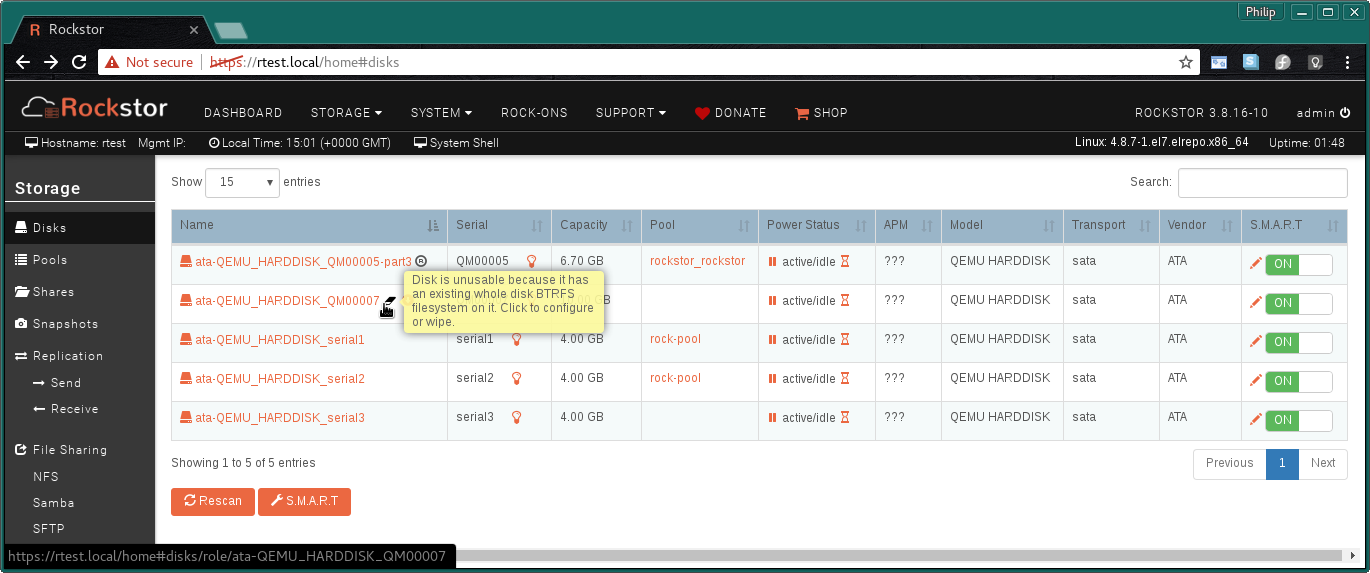
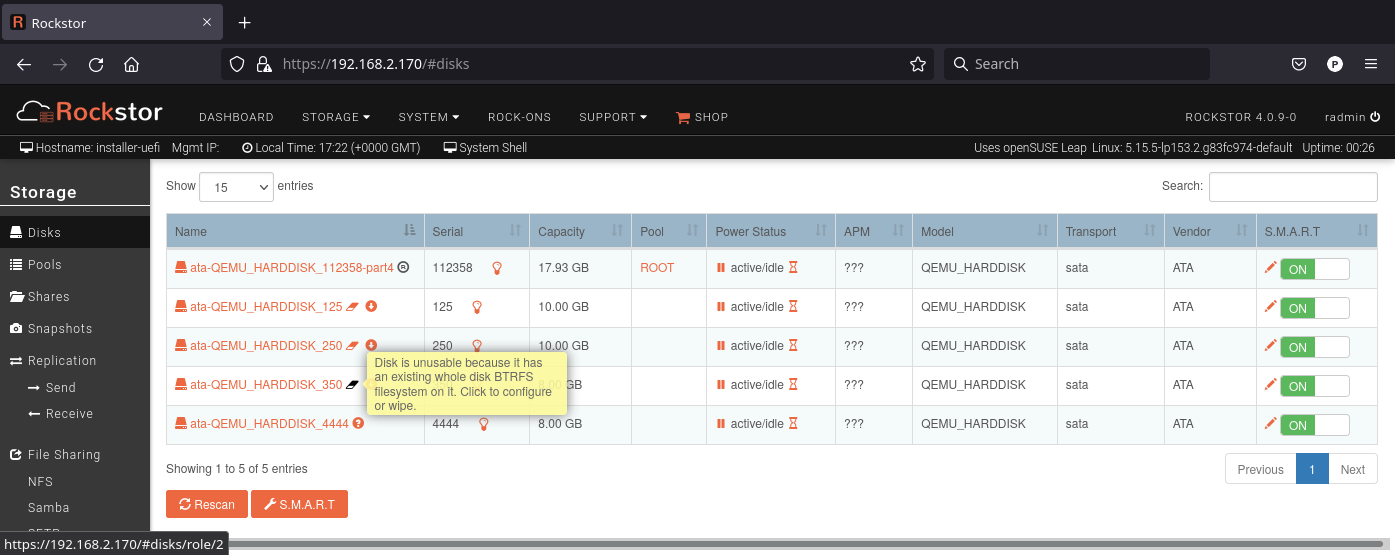
update Disk page for question mark meaning #236
Update our disk page Web-UI screen images and associated text regarding
the meaning of the question mark and its context re other disk state
icons used. Includes some re-ordering and a fair bit of re-wording to
help clarify such things as the re-direct role.

diff --git a/interface/storage/disks.rst b/interface/storage/disks.rst
@@ -23,7 +23,7 @@ to be attached are re-named to **detached-<random-string>**. Attached devices
 are named according to their boot to boot stable udev assigned by-id names (ie
 **/dev/disk/by-id** entries). All devices require and are tracked by their
 unique **serial number** which allows for consistent settings even when a disk
-is moved from one pool to another (via sequential pool resize operations).
+is moved from one pool to another (via sequential pool Resize/Reraid operations).
 
 The Disks Web-UI page:
 
@@ -38,10 +38,10 @@ the table along with **Prev** and **Next** buttons.
 
 *Table links from left to right:-*
 
-* **Drive 'by-id' Name** - see drive's :ref:`smart` / status.
+* **Drive 'by-id' Name** - click see drive's :ref:`smart` / status.
 * **Bulb Icon** - flash drive's activity light to **identify its physical
   location**.
-* **Pool Name** - :ref:`pools` specific **details** page.
+* **Pool Name** - click for :ref:`pools` **details** page.
 * **Pause Drive** - request an immediate drive **spin down** (standby mode).
 * **Hour glass** - configure :ref:`drivespindown` given idle time, see:
   :ref:`idletime`.
@@ -59,8 +59,6 @@ functions provided by the *S.M.A.R.T* column entries.
   below.
 * **S.M.A.R.T** - system wide **custom configuration** (advanced).
 
-
-
 ..  _scandisks:
 
 Scan for Disk Changes
@@ -68,7 +66,7 @@ Scan for Disk Changes
 
 Clicking the **Rescan** button forces an update of the Disk table. This is
 particularly useful if a drive has been added or removed since Rockstor was
-powered on ie *hot plugged/unplugged*. It is recommended that this action be
+powered on i.e. *hot plugged/unplugged*. It is recommended that this action be
 taken just prior to *removing detached devices* to ensure the table contents
 is freshly updated.
 
@@ -97,69 +95,65 @@ This process is detailed in the following sub-sections: :ref:`btrfsdisk`, and
 Import whole disk BTRFS
 ^^^^^^^^^^^^^^^^^^^^^^^
 
-If after a :ref:`scandisks` or after :ref:`reinstall` the system finds an
-**existing whole disk BTRFS filesystem** a small **down arrow icon** next to
-pool member drive names will be visible. This down arrow can be used to import
-the btrfs filesystem, assuming all prior pool members are attached.
+If after a :ref:`scandisks` or after :ref:`reinstall` the system finds an **existing whole disk BTRFS filesystem**
+a small **down arrow icon** next to each pool member drive names will be visible.
+This down arrow can be used to import the btrfs filesystem, assuming all prior pool members are attached.
 
-*The import icon:*
+Here we see the disks page after a re-install to the system in the last image above.
+No pools have yet been imported.
 
 .. image:: /images/interface/storage/existing-btrfs-whole-disk-import-tooltip.png
    :width: 100%
    :align: center
 
-**import icon tooltip** *"Click to import data (pools, shares and snapshots)
-on this disk automatically. Multi-device support included."*
-
-*or configure / wipe*
+- **import icon mouse-over tooltip** *"Click to import data (pools, shares and snapshots)
+  on this disk automatically. Multi-device support included."*
 
 .. image:: /images/interface/storage/existing-btrfs-whole-disk-config-tooltip.png
    :width: 100%
    :align: center
 
-**configure or wipe icon tooltip** *"Disk is unusable because it has an
-existing whole disk BTRFS filesystem on it. Click to configure or wipe."*.
+- **configure or wipe icon mouse-over tooltip** *"Disk is unusable because it has an
+  existing whole disk BTRFS filesystem on it. Click to configure or wipe."*.
 
-In this case we use the former **import** icon option and there after the
-disk table is as follows:
+In this case we used the **import** (down arrow) option and there after the disk table is as follows:
 
 .. image:: /images/interface/storage/whole-disk-btrfs-import-done.png
    :width: 100%
    :align: center
 
-In the above the btrfs filesystem created (outside of Rockstor) was labeled
-"test-pool".
+In the above we have now imported the prior multi-device pool via one of its members.
+This process can take from a few seconds to a minute or so, depending on pool size and share/snapshot count.
 
-**Note: Rockstor requires btrfs labels and will name imported pools by
-the label found during the import process.**
+**Note: Rockstor requires/uses btrfs labels.
+Imported pools are named after their respective labels.**
 
 ..  _btrfspartition:
 
 Import BTRFS in partition
 ^^^^^^^^^^^^^^^^^^^^^^^^^
 
-Rockstor can also import btrfs pools that have partitioned members (*although
-whole disk is recommended as this is a simpler arrangement*). If at least one
-pool member is a whole disk btrfs (no partition table or partitions) then the
+Rockstor can also import pools with btrfs-in-partition members (*although
+whole disk is strongly recommended as this is a simpler arrangement*). If at least one
+pool member is a whole disk btrfs (no partition table) then the
 above :ref:`btrfsdisk` method can be used on this whole disk member. But if
 all pool members are partitions then a manually applied 'redirect role' will
-be needed on one of the pool members in order to enable the import icon on
+be required on one of the pool members in order to enable the import icon on
 that member. During the import all other partitioned members of the pool will
 have their required redirect roles applied automatically.
 
-The following shows the tooltip guide for an as yet un-imported pre exiting
-single device btrfs in partition:
+An as-yet un-imported pre-exiting btrfs-in-partition disk, with no redirect role, will have a **gear/cog icon**.
 
-.. image:: /images/interface/storage/existing-btrfs-partition-import-tooltip.png
-   :width: 100%
-   :align: center
-
-**configure or wipe tooltip** *"Disk is unusable as it contains partitions:
-one of which has an existing BTRFS filesystem on it. A User Assigned redirect
-role is required prior to import. Click to configure or wipe."*
+- **gear/cog icon tooltip** *"Disk is unusable as it contains partitions:
+  one of which has an existing BTRFS filesystem on it. A User Assigned redirect
+  role is required prior to import. Click to configure or wipe."*
 
 Please see :ref:`addingredirectrole` in the :ref:`diskroleconfig` section to
 enable / activate the import icon for a partitioned pool member.
+
+**N.B. Rockstor supports only one btrfs partition per device**
+**and is not compatible with any LVM configuration.**
+**Whole disk btrfs (no partition table) is strongly recommended.**
 
 .. _diskroleconfig:
 
@@ -198,7 +192,7 @@ partitions data and filesystem. No Redirect + Wipe erases the entire drive
 and all it's partitions. The wipe command used is "wipefs -a devname".** "
 
 The Redirect role is essentially a pointer to the partition one wants to use
-on a disk instead of using the whole disk (recommended). No Redirect role
+on a disk instead of using the whole disk (whole disk is recommended). No Redirect role
 (default) means "use whole disk". The **Select Partition to use** option
 indicates the current setting by adding an **active** to that entry.
 
@@ -223,10 +217,10 @@ when no btrfs partition exists on the same device."*
 
 Also note that once a redirect role to a btrfs partition has been established
 it is by design that it cannot be changed to another partition until the
-btrfs filesystem in that partition is wiped; either via a resize - remove disk
+btrfs filesystem in that partition is wiped; either via a Resize/ReRaid - remove disk
 operation if it is a member of a pool, or by simply wiping it in the
-:ref:`diskroleconfig` page if it is not associated with any Rockstor managed
-pools. In this case the warning message in red is:
+:ref:`diskroleconfig` page if it is not associated with any Rockstor managed pools.
+In this case the warning message in red is:
 
 *"Active btrfs partition redirect found; if you wish to change this redirect
 role first wipe the partition and then re-assign. Redirection is only
@@ -241,7 +235,7 @@ See also related wipe restrictions towards the end of the
 Adding a Redirect Role
 ^^^^^^^^^^^^^^^^^^^^^^
 
-Rockstor has an ability to work with existing partitioned devices, however the
+Rockstor has an ability to work with existing partitioned devices, however the strong
 recommendation is to use whole disks. But where this is specifically not
 desired or is otherwise unavoidable then a simple mechanism is available to
 allow the use of a single partition per disk (system disk not included). This
@@ -255,72 +249,103 @@ their contained data from the entire disk) and the disk is then usable in the
 preferred "Whole Disk" no redirect role mode.
 
 Prior to configuration, partitioned disks are displayed with a little
-**gear icon** next to their name:
+**gear/cog icon** next to their name:
 
-.. image:: /images/interface/storage/partitioned-disk-pre-redirect-role.png
-   :width: 100%
-   :align: center
+- **gear/cog icon configure or wipe mouse-over tooltip** *"Disk is unusable as it contains partitions
+  and no User Assigned Role. Click to configure or wipe."*
 
-**configure or wipe tooltip** *"Disk is unusable as it contains partitions
-and no User Assigned Role. Click to configure or wipe."*
-
-N.B. a variation of this 'cog icon' tooltip message is observed if any of the
+N.B. a variation of this 'gear/cog icon' mouse-over tooltip text occurs if any of the
 exiting partitions are found to be un-imported btrfs members. See the above
-:ref:`btrfspartition` section for more details and an image showing this
-variation.
+:ref:`btrfspartition` section for more details and the mouse-over tooltip text in this case.
 
-In either case clicking on this icon opens the :ref:`diskroleconfig` screen:
+In either case clicking on this gear/cog icon opens the :ref:`diskroleconfig` screen:
 
-In the following we return to the :ref:`btrfspartition` example:
+In the following we return to the :ref:`btrfspartition` example.
+Our contrived externally generated single disk btrfs-in-partition example was created as follows:
 
-In this image we see the selection having been made but not yet submitted.
+- partitioning (1/2 fat32 & 1/2 linux partition types):
+
+.. code-block:: console
+
+    parted -a optimal /dev/disk/by-id/ata-QEMU_HARDDISK_4444
+    mklabel msdos
+    mkpart primary fat32 1 50%
+    mkpart primary ext2 50% 100%
+    quit
+
+- formatting (fat32 & btrfs volume/pool):
+
+.. code-block:: console
+
+    mkfs.fat -s2 -F 32 /dev/disk/by-id/ata-QEMU_HARDDISK_4444-part1
+    mkfs.btrfs -L btrfs-in-partition /dev/disk/by-id/ata-QEMU_HARDDISK_4444-part2
+
+The prior **ready for allocation ? icon** is replaced by a **gear/cog icon** indicating the need for a redirect role.
+Our contrived example has only one member and it is in a partition.
+This by-hand (command line) configuration is not Rockstor native.
+Whole disk (no partition table) is strongly recommended and Rockstor has no build-in partitioning capability.
+But via a redirect role an import, in this contrived example, is possible.
+
+In this image we see the drop down selector with the default of whole disk:
 
 .. image:: /images/interface/storage/select-btrfs-partition-redirect.png
    :width: 100%
    :align: center
 
-And once selected we **Submit** this **Redirect role**.
+And once selected but not yet submitted (i.e. no "- active") we have:
 
-The resulting disk page entry then gains the import icon as Rockstor now has
-confirmation to use this particular partition and as seen in the
-previous image, it contained a btrfs filesystem.
+.. image:: /images/interface/storage/selected-btrfs-partition-redirect.png
+   :width: 100%
+   :align: center
+
+We **Submit** this **Redirect role** in order to activate it.
+Rockstor now has confirmation to use this particular partition and as seen in the previous image,
+it contained a btrfs filesystem.
+
+The affected disk entry then looses it's gear/cog icon and gains:
+
+The generic **role tags icon**, with partition aware text.
+If this was not a partitioned device the icon would be a single tag,
+indicating a whole disk role (whole disk roles are a pending feature).
+
+- **Role tags icon mouse-over tooltip**
+  *"User Assigned Role found on partitioned disk, click to edit."*
+
+The generic **eraser wipe icon**, with partition aware text:
+
+- **eraser wipe icon mouse-over tooltip**:
+  *"Partition is unusable because it has an existing BTRFS filesystem on it. Click to configure or wipe."*
+
+The generic **import icon**, with partition aware text:
+
+- **import icon mouse-over tooltip**:
+  *"Click to import data (pools, shares and snapshots) on this partition automatically
+  (Note: whole disk btrfs is recommended)."*
+
+The options now available mirror those of an existing as yet un-imported whole disk btrfs member:
+as seen in the :ref:`btrfsdisk` section: ie either import from, or wipe, the active selection.
 
 .. image:: /images/interface/storage/post-role-existing-btrfs-partition-import-tooltip.png
    :width: 100%
    :align: center
 
-**import icon tooltip** when importing from a partitioned pool member we have:
-*"Click to import data (pools, shares and snapshots) on this partition
-automatically (Note: whole disk btrfs is recommended)."*
+The only difference from a whole disk btfs, pre-import, is the *Role tags* icon.
 
-Note the **Role tags** icon indicating this drive has a Role configured. If
-this was not a partitioned device the icon would be a single tag indicating a
-whole disk role (whole disk roles are a pending feature). Also note the
-difference / similarity of these two as yet un-imported pools, the first
-"Whole Disk" import option and the second "btrfs in partition" via a redirect
-role import option.
-
-Clicking on either the tags icon (Redirect Role active) or the wipe / erase
-icon will display the :ref:`diskroleconfig` page where the current "active"
-setting for this partition redirect are displayed.
+Clicking on either the *Role tags* or the *erase* icon will display the same :ref:`diskroleconfig` page,
+where the current "active" setting for this partition redirect role is displayed.
 
 .. image:: /images/interface/storage/active-btrfs-partition-redirect.png
    :width: 100%
    :align: center
 
-Note that the options now available mirror those of an existing as yet
-un-imported whole disk btrfs member: as seen in the :ref:`btrfsdisk` section:
-ie either import from, or wipe, the active selection.
-
 If a redirect role is configured to a non btrfs partition then no import or
-wipe icons are displayed. And once imported the same is true for a btrfs
-partition:
+wipe icons are displayed. And once imported the same is true for a btrfs-in-partition disk:
 
 .. image:: /images/interface/storage/imported-btrfs-in-partition.png
    :width: 100%
    :align: center
 
-In the above the btrfs filesystem created (outside of Rockstor) was
+In the above the btrfs-in-partition filesystem created outside of Rockstor was
 purposefully labeled "btrfs-in-partition" to aid in this example.
 
 **Note: Rockstor requires btrfs labels and will name imported pools by the
@@ -337,11 +362,14 @@ all data and filesystem indicators on the wiped device; or in the case of a
 whole disk wipe, all partitions and the partition table as well.
 
 **N.B. When reusing a partition it is the users responsibility to
-ensure that the partition type is correct for the intended use. For 'btrfs
-in partition' this would be type ext2 (83 Linux).** When using the default and
-recommended "Whole Disk" this caveat or complication is irrelevant as there
-will be no partitions or partition table (*N.B. not to be confused with a
-partition that occupies the whole disk*).
+ensure that the partition type is correct for the intended use.
+For btrfs-in-partition this would be type ext2 (83 Linux).**
+When using the recommended default of "Whole Disk" this caveat/complication is irrelevant
+as there will be no partitions or a partition table.
+
+**Whole Disk should not to be confused with a partition that occupies the whole disk.**
+
+**Btrfs can use a raw device directly; removing a myriad of complexities.**
 
 All partition or whole disk wiping is accomplished from the
 :ref:`diskroleconfig` screen and only an **active** selection can be wiped.
@@ -349,16 +377,15 @@ If a partition or whole disk entry is not active, first select it and
 **Submit** this selection, this will change the "active" selection. Note
 that changing the "active" selection of a device can cause data loss
 so please consider this action carefully and read the configuration page
-warnings before proceeding. In the case of btrfs in partition some safeguards
+warnings before proceeding. In the case of btrfs-in-partition some safeguards
 are in place and appropriate warning messages will indicate their presence:
-consequently there are restrictions on what can be done and in what order,
-especially in the case of an existing btrfs partition.
+consequently there are restrictions on what can be done and in what order.
 
 One such restriction is that only non Rockstor managed btrfs pool members can
 be wiped. If any device forms part of a Rockstor managed btrfs pool, attempts
 to wipe the device will be rejected with the following message in red:
 
-"Selected device is part of a Rockstor managed pool. Use Pool resize to
+"Selected device is part of a Rockstor managed pool. Use Pool Resize/ReRaid to
 remove it from the relevant pool which in turn will wipe it's filesystem."
 
 So it is first necessary to either remove the device from it's pool or delete
@@ -410,8 +437,8 @@ and the additional detached exclamation mark indicator.
 
 The following details the respective mouse-over tooltip text for the detached disk's icons.
 
-- **detached map-pin/info icon tooltip** *"Drive is a detached member of a Rockstor managed Pool"*
-- **detached exclamation mark link icon tooltip** *"Use linked Pool page Resize / ReRaid 'remove disks' option if no reattachment is planned."*
+- **detached map-pin/info icon mouse-over tooltip** *"Drive is a detached member of a Rockstor managed Pool"*
+- **detached exclamation mark icon mouse-over tooltip** *"Use linked Pool page Resize / ReRaid 'remove disks' option if no reattachment is planned."*
 
 .. image:: /images/interface/storage/disk_detached_exclamation.png
    :width: 100%
@@ -434,7 +461,7 @@ Non Pool Associated
 Detached drives with no Rockstor managed Pool association gain a **bin/trash icon** next to their 'detached' name.
 This icon has the following tooltip text:
 
-- **detached bin/trash icon tooltip** *"Disk is unusable because it is detached.
+- **detached bin/trash icon mouse-over tooltip** *"Disk is unusable because it is detached.
   Click to delete it from the system if it is not to be reattached."*
 
 .. image:: /images/interface/storage/disk_detached.png
